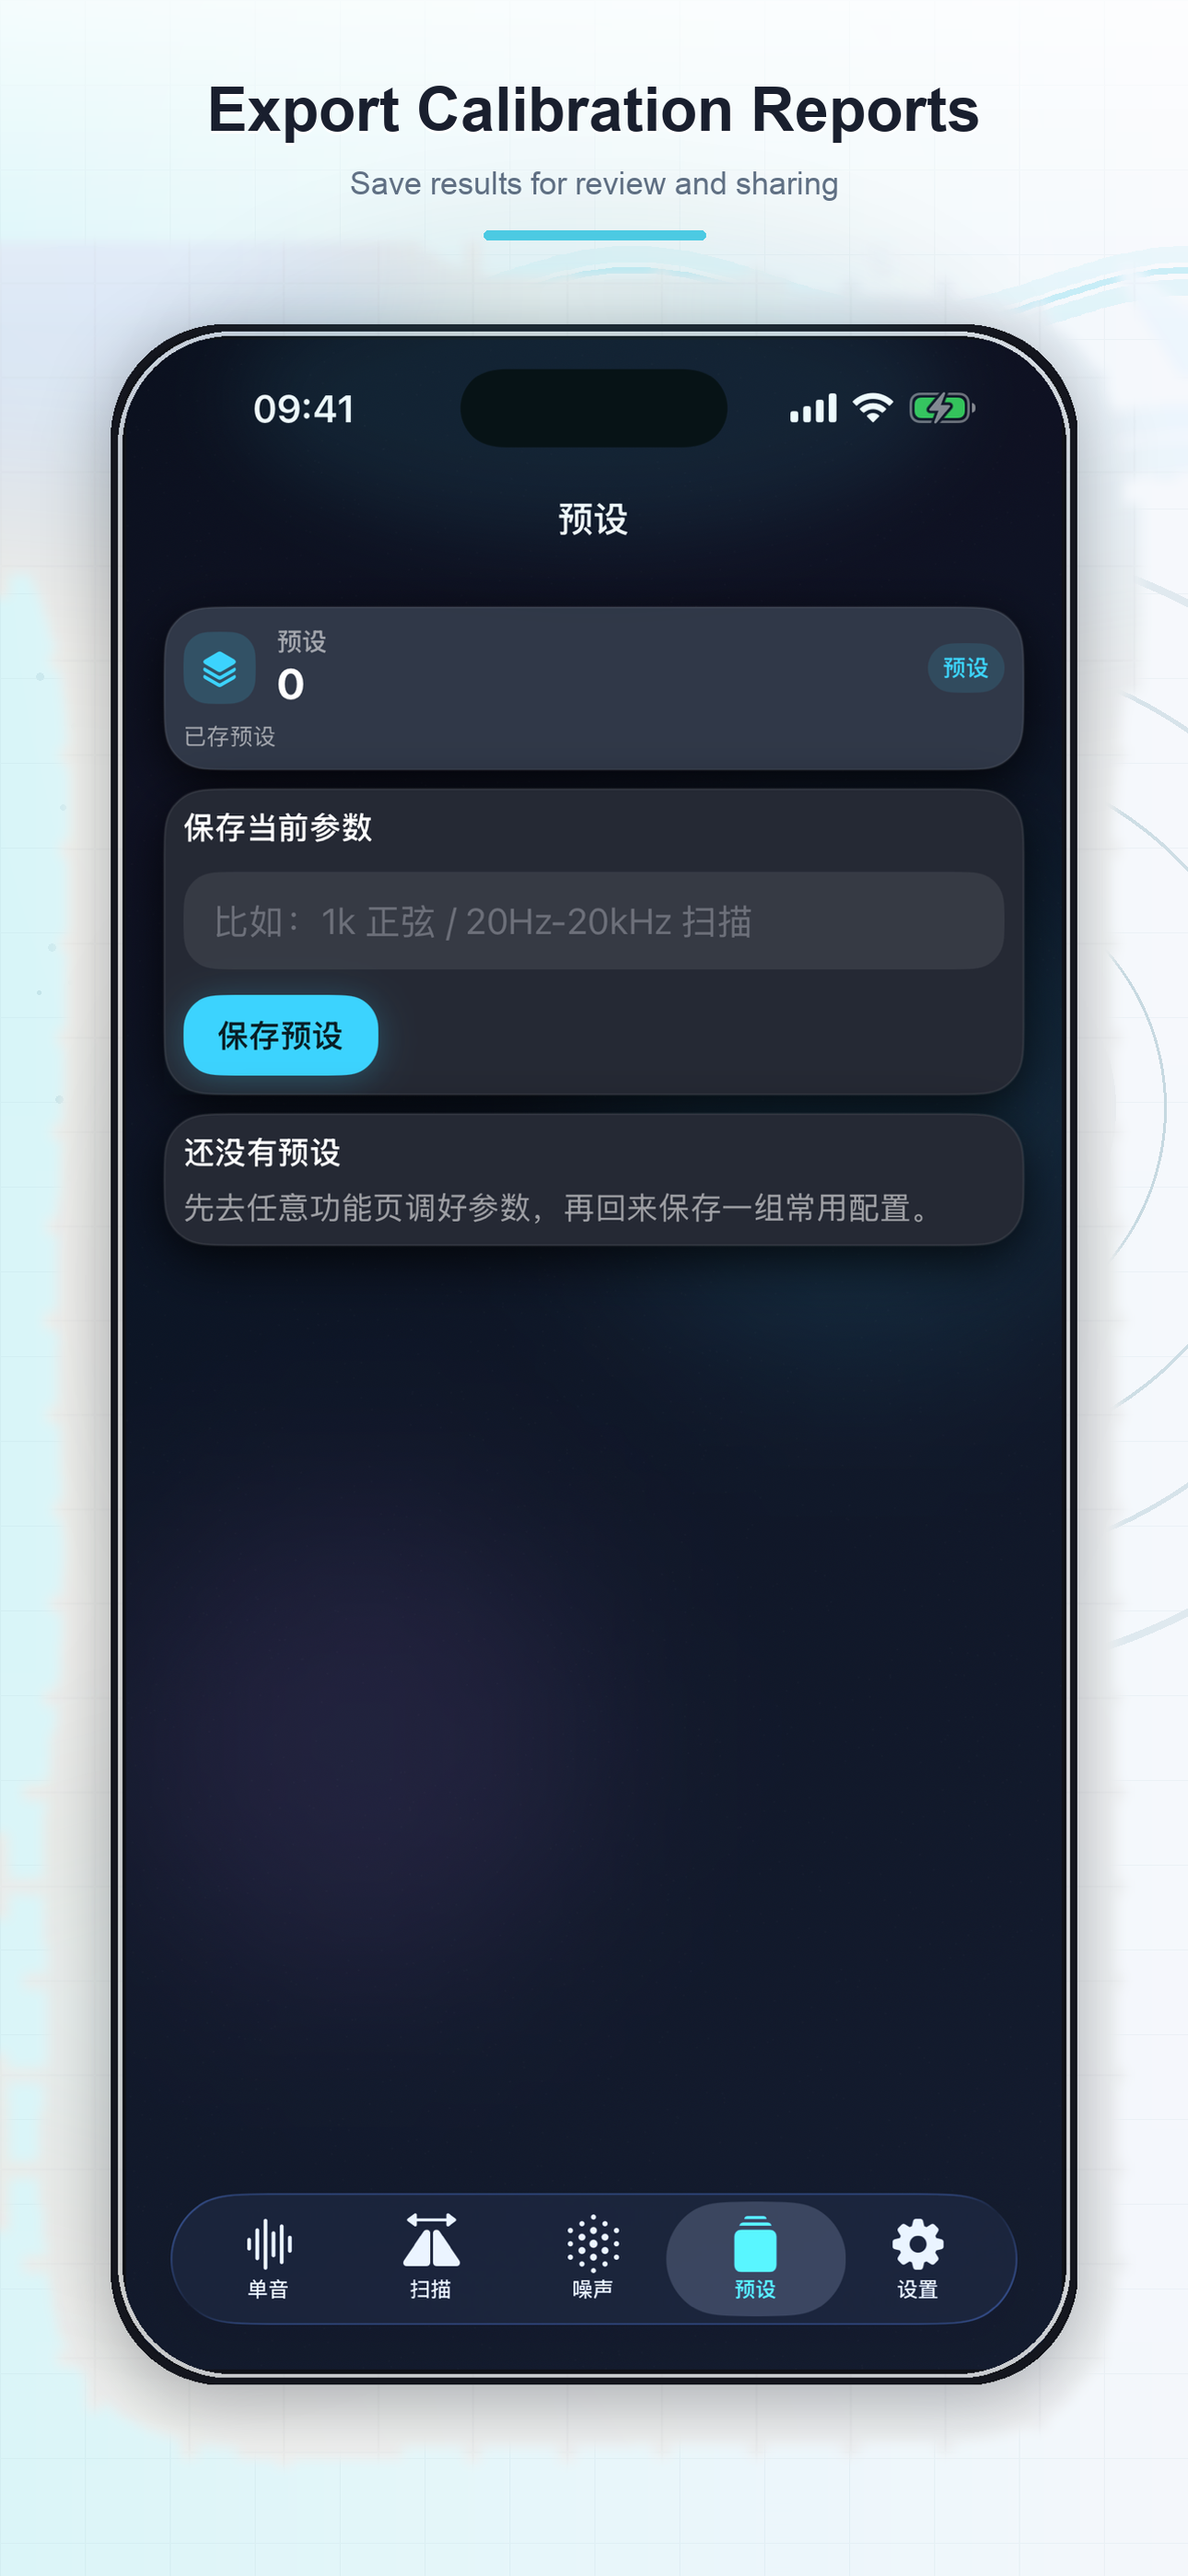
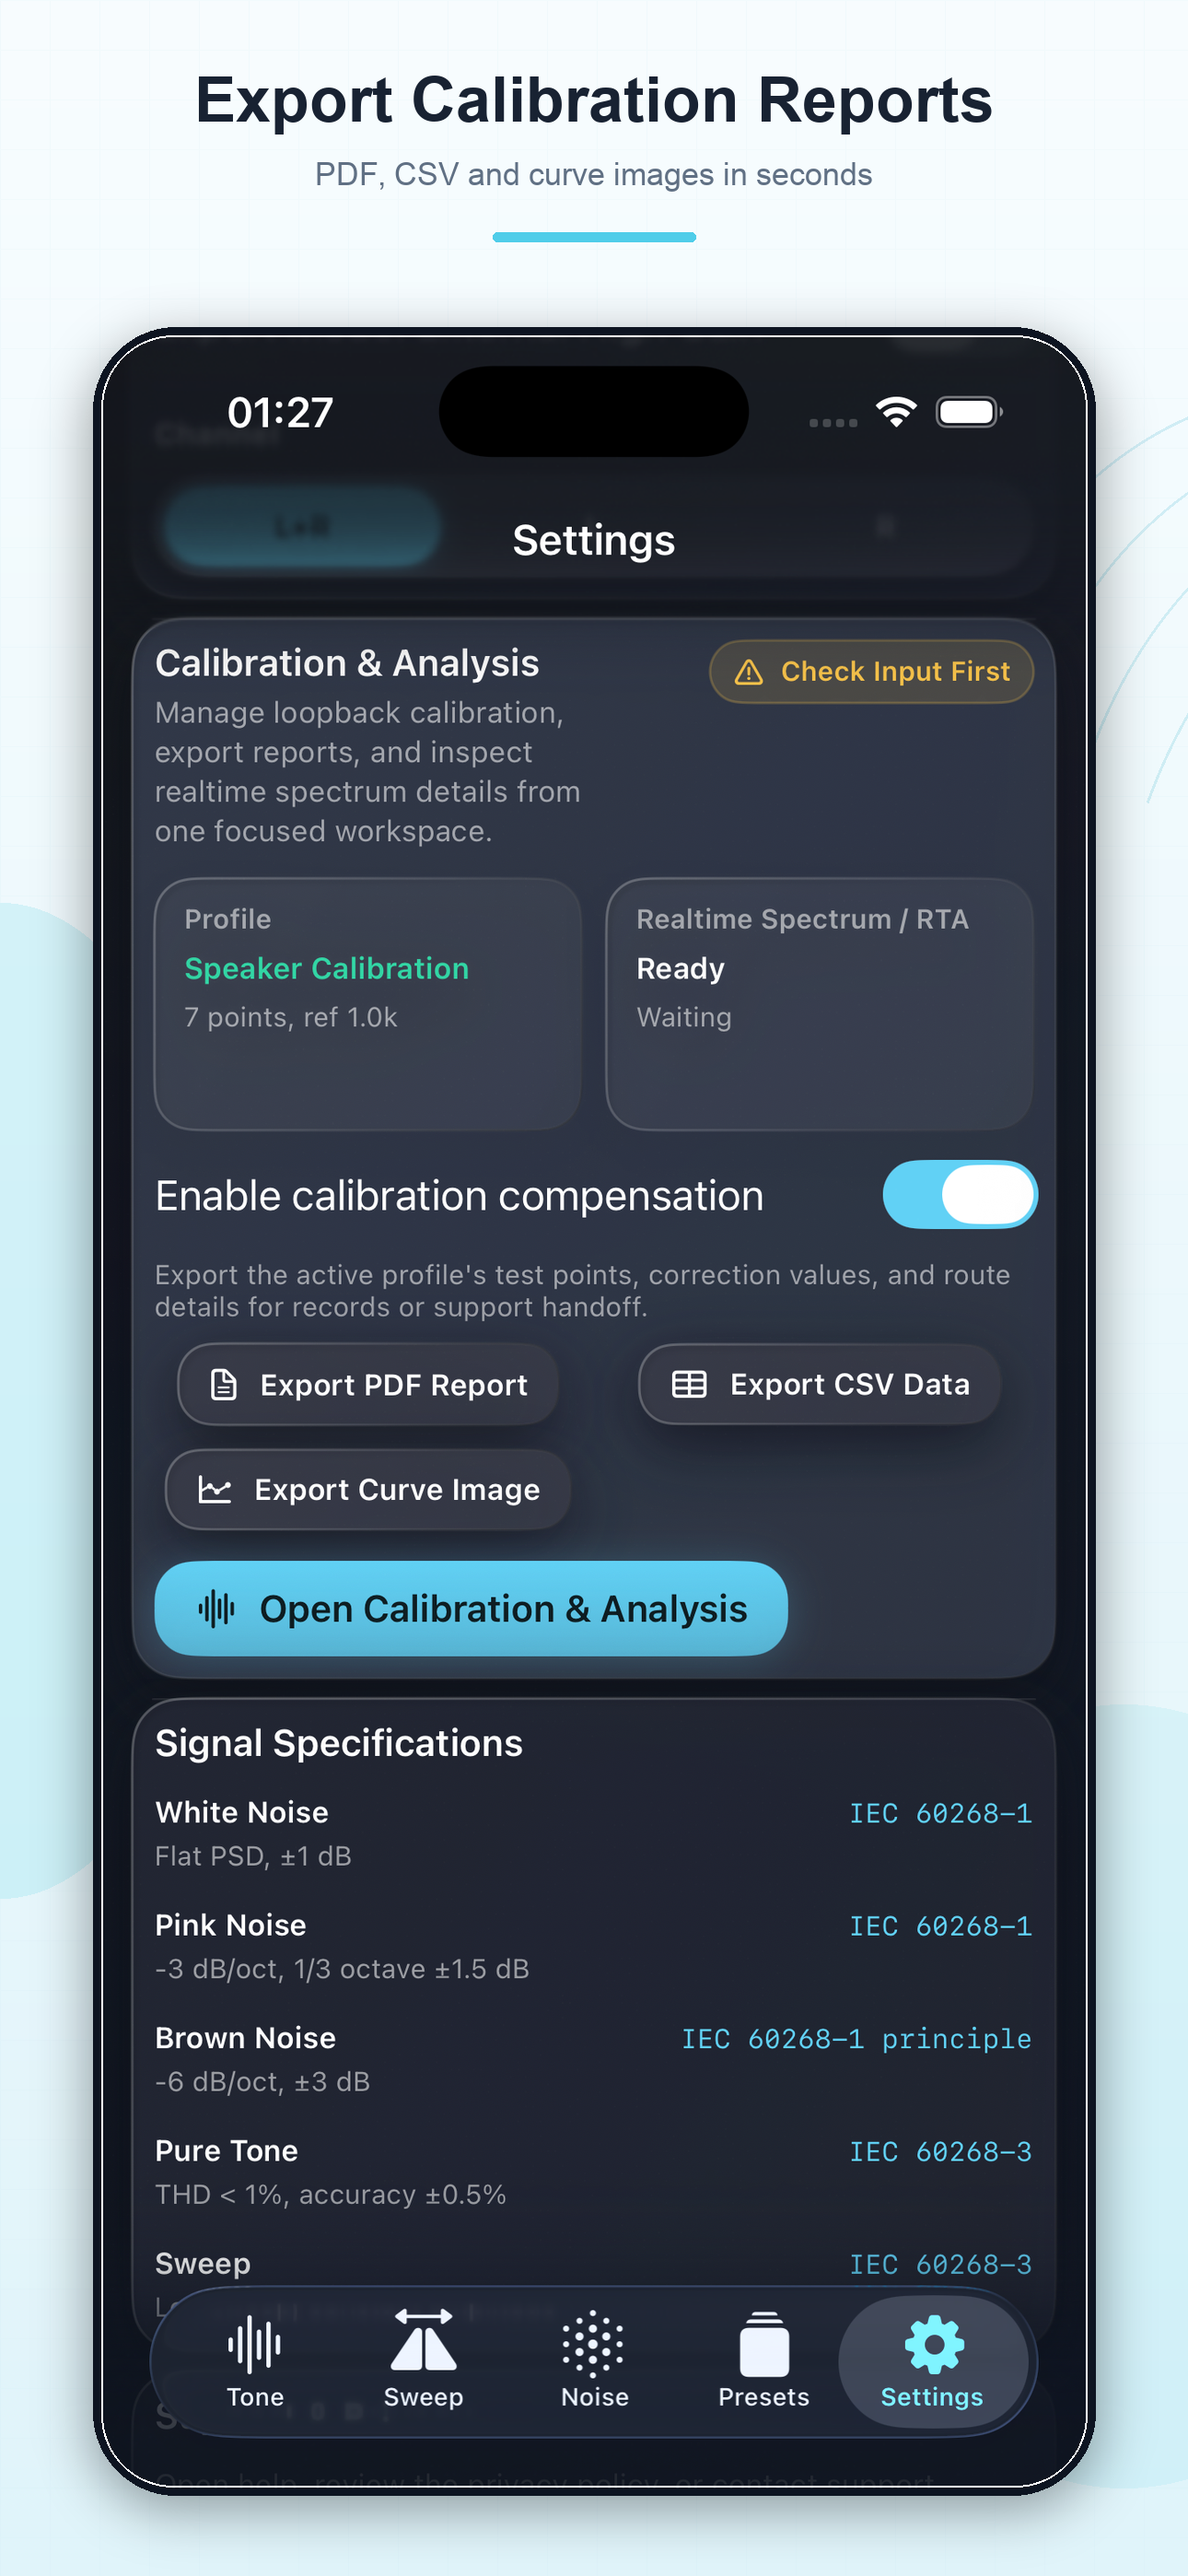
Expose calibration report export and refresh ASO screenshots

diff --git a/Sources/App/Pages/SettingsPageView.swift b/Sources/App/Pages/SettingsPageView.swift
@@ -17,12 +17,13 @@ struct SettingsPageView: View {
 
     var body: some View {
         NavigationStack {
-            AdaptiveDashboard(onBackgroundTap: dismissKeyboard) {
+            AdaptiveDashboard(onBackgroundTap: dismissKeyboard, initialScrollID: screenshotInitialScrollID) {
                 MembershipSettingsCard(membershipStore: membershipStore, showMembership: showMembership)
                 routeOverviewCard
                 if membershipStore.hasCoreAccess {
                     playbackCard
                     calibrationSummaryCard
+                        .id("settings.calibration")
                 }
                 signalSpecificationsCard
                 supportCard
@@ -44,6 +45,16 @@ struct SettingsPageView: View {
                     .presentationDetents([.large])
                     .preferredColorScheme(.dark)
             }
+            .fileExporter(
+                isPresented: $isCalibrationReportExporterPresented,
+                document: calibrationReportDocument,
+                contentType: selectedCalibrationReportExportFormat.contentType,
+                defaultFilename: calibrationReportDocument.defaultFilename
+            ) { result in
+                if case .success = result {
+                    requestReviewAfterMeaningfulAction(.reportExported)
+                }
+            }
             .onChange(of: audioController.loopbackCalibrationPhase) { _, phase in
                 if phase == .completed {
                     requestReviewAfterMeaningfulAction(.calibrationCompleted)
@@ -53,6 +64,16 @@ struct SettingsPageView: View {
         .tabItem {
             Label(String(localized: "tab.settings"), systemImage: "gearshape")
         }
+    }
+
+    private var screenshotInitialScrollID: String? {
+        let arguments = ProcessInfo.processInfo.arguments
+        guard let index = arguments.firstIndex(of: "-AcoustaLabScreenshotScroll"),
+              arguments.indices.contains(index + 1)
+        else {
+            return nil
+        }
+        return arguments[index + 1]
     }
 
     private var routeOverviewCard: some View {
@@ -179,6 +200,10 @@ struct SettingsPageView: View {
                     )
                     .tint(AppTheme.accent)
                     .disabled(audioController.isLoopbackCalibrationRunning)
+
+                    if let activeProfile = audioController.activeCalibrationProfile {
+                        reportExportSection(for: activeProfile)
+                    }
                 }
 
                 Button {
@@ -219,17 +244,37 @@ struct SettingsPageView: View {
                     }
                 }
             }
-            .fileExporter(
-                isPresented: $isCalibrationReportExporterPresented,
-                document: calibrationReportDocument,
-                contentType: selectedCalibrationReportExportFormat.contentType,
-                defaultFilename: calibrationReportDocument.defaultFilename
-            ) { result in
-                if case .success = result {
-                    requestReviewAfterMeaningfulAction(.reportExported)
+        }
+    }
+
+    private func reportExportSection(for profile: CalibrationProfile) -> some View {
+        VStack(alignment: .leading, spacing: 8) {
+            Text(String(localized: "calibration.report_body"))
+                .font(.caption2)
+                .foregroundStyle(AppTheme.textSecondary)
+
+            LazyVGrid(columns: gridColumns(2), spacing: 10) {
+                ForEach(CalibrationReportExportFormat.exportButtonFormats, id: \.self) { format in
+                    Button {
+                        exportCalibrationReport(profile: profile, format: format)
+                    } label: {
+                        Label {
+                            Text(LocalizedStringKey(format.localizedTitleKey))
+                        } icon: {
+                            Image(systemName: format.systemImage)
+                        }
+                    }
+                    .buttonStyle(SecondaryButtonStyle())
+                    .disabled(audioController.isLoopbackCalibrationRunning)
                 }
             }
         }
+    }
+
+    private func exportCalibrationReport(profile: CalibrationProfile, format: CalibrationReportExportFormat) {
+        selectedCalibrationReportExportFormat = format
+        calibrationReportDocument = CalibrationReportDocument(profile: profile, format: format)
+        isCalibrationReportExporterPresented = true
     }
 
     private var calibrationCard: some View {
@@ -502,29 +547,7 @@ struct SettingsPageView: View {
                     }
 
                     if let activeProfile = audioController.activeCalibrationProfile {
-                        VStack(alignment: .leading, spacing: 8) {
-                            Text(String(localized: "calibration.report_body"))
-                                .font(.caption2)
-                                .foregroundStyle(AppTheme.textSecondary)
-
-                            LazyVGrid(columns: gridColumns(2), spacing: 10) {
-                                ForEach(CalibrationReportExportFormat.exportButtonFormats, id: \.self) { format in
-                                    Button {
-                                        selectedCalibrationReportExportFormat = format
-                                        calibrationReportDocument = CalibrationReportDocument(profile: activeProfile, format: format)
-                                        isCalibrationReportExporterPresented = true
-                                    } label: {
-                                        Label {
-                                            Text(LocalizedStringKey(format.localizedTitleKey))
-                                        } icon: {
-                                            Image(systemName: format.systemImage)
-                                        }
-                                    }
-                                    .buttonStyle(SecondaryButtonStyle())
-                                    .disabled(audioController.isLoopbackCalibrationRunning)
-                                }
-                            }
-                        }
+                        reportExportSection(for: activeProfile)
                     }
                 }
 

diff --git a/Sources/App/AppUIComponents.swift b/Sources/App/AppUIComponents.swift
@@ -329,15 +329,18 @@ struct CalibrationCurveView: View {
 
 struct AdaptiveDashboard<Content: View>: View {
     var onBackgroundTap: (() -> Void)? = nil
+    var initialScrollID: String? = nil
     private let content: (DashboardLayoutMetrics) -> Content
 
-    init(onBackgroundTap: (() -> Void)? = nil, @ViewBuilder content: @escaping () -> Content) {
+    init(onBackgroundTap: (() -> Void)? = nil, initialScrollID: String? = nil, @ViewBuilder content: @escaping () -> Content) {
         self.onBackgroundTap = onBackgroundTap
+        self.initialScrollID = initialScrollID
         self.content = { _ in content() }
     }
 
-    init(onBackgroundTap: (() -> Void)? = nil, @ViewBuilder content: @escaping (DashboardLayoutMetrics) -> Content) {
+    init(onBackgroundTap: (() -> Void)? = nil, initialScrollID: String? = nil, @ViewBuilder content: @escaping (DashboardLayoutMetrics) -> Content) {
         self.onBackgroundTap = onBackgroundTap
+        self.initialScrollID = initialScrollID
         self.content = content
     }
 
@@ -369,20 +372,30 @@ struct AdaptiveDashboard<Content: View>: View {
                 .acousticGrain(opacity: 0.010)
                 .ignoresSafeArea()
 
-                ScrollView(showsIndicators: false) {
-                    VStack(spacing: metrics.cardSpacing) {
-                        content(metrics)
+                ScrollViewReader { proxy in
+                    ScrollView(showsIndicators: false) {
+                        VStack(spacing: metrics.cardSpacing) {
+                            content(metrics)
+                        }
+                        .frame(maxWidth: .infinity, minHeight: metrics.contentMinHeight, alignment: .top)
+                        .padding(.horizontal, metrics.horizontalPadding)
+                        .padding(.top, metrics.topPadding)
+                        .padding(.bottom, metrics.bottomPadding)
                     }
-                    .frame(maxWidth: .infinity, minHeight: metrics.contentMinHeight, alignment: .top)
-                    .padding(.horizontal, metrics.horizontalPadding)
-                    .padding(.top, metrics.topPadding)
-                    .padding(.bottom, metrics.bottomPadding)
+                    .environment(\.dashboardLayoutMetrics, metrics)
+                    .scrollDismissesKeyboard(.interactively)
+                    .simultaneousGesture(TapGesture().onEnded {
+                        onBackgroundTap?()
+                    })
+                    .onAppear {
+                        guard let initialScrollID else { return }
+                        DispatchQueue.main.asyncAfter(deadline: .now() + 0.35) {
+                            withAnimation(.easeOut(duration: 0.2)) {
+                                proxy.scrollTo(initialScrollID, anchor: .top)
+                            }
+                        }
+                    }
                 }
-                .environment(\.dashboardLayoutMetrics, metrics)
-                .scrollDismissesKeyboard(.interactively)
-                .simultaneousGesture(TapGesture().onEnded {
-                    onBackgroundTap?()
-                })
             }
         }
     }

diff --git a/Sources/App/ContentView.swift b/Sources/App/ContentView.swift
@@ -67,7 +67,7 @@ struct ContentView: View {
         }
         .onAppear {
             syncAllInputFields()
-            selectedTab = RootTab(mode: audioController.selectedMode)
+            selectedTab = screenshotInitialTab ?? RootTab(mode: audioController.selectedMode)
         }
         .task {
             await membershipStore.configure()
@@ -219,6 +219,30 @@ struct ContentView: View {
 
     private func showMembership() {
         isMembershipSheetPresented = true
+    }
+
+    private var screenshotInitialTab: RootTab? {
+        let arguments = ProcessInfo.processInfo.arguments
+        guard let index = arguments.firstIndex(of: "-AcoustaLabScreenshotTab"),
+              arguments.indices.contains(index + 1)
+        else {
+            return nil
+        }
+
+        switch arguments[index + 1] {
+        case "tone":
+            return .tone
+        case "sweep":
+            return .sweep
+        case "noise":
+            return .noise
+        case "presets":
+            return .presets
+        case "settings":
+            return .settings
+        default:
+            return nil
+        }
     }
 
     private func applySweepStepValue(_ value: Double) {

diff --git a/AppStoreAssets/README.md b/AppStoreAssets/README.md
@@ -32,8 +32,9 @@ Use stable names to keep upload order deterministic:
 - `01-speaker-test` — speaker/audio test value proposition
 - `02-sweep` — sweep testing and abnormal frequency positioning
 - `03-noise` — white/pink noise environment checks
-- `04-report` — calibration report export
+- `04-report` — calibration report export from the Settings calibration card
 - `05-privacy` — local processing and privacy reassurance
+- `06-presets` — one-click built-in test presets
 
 ## Current ASO copy
 
